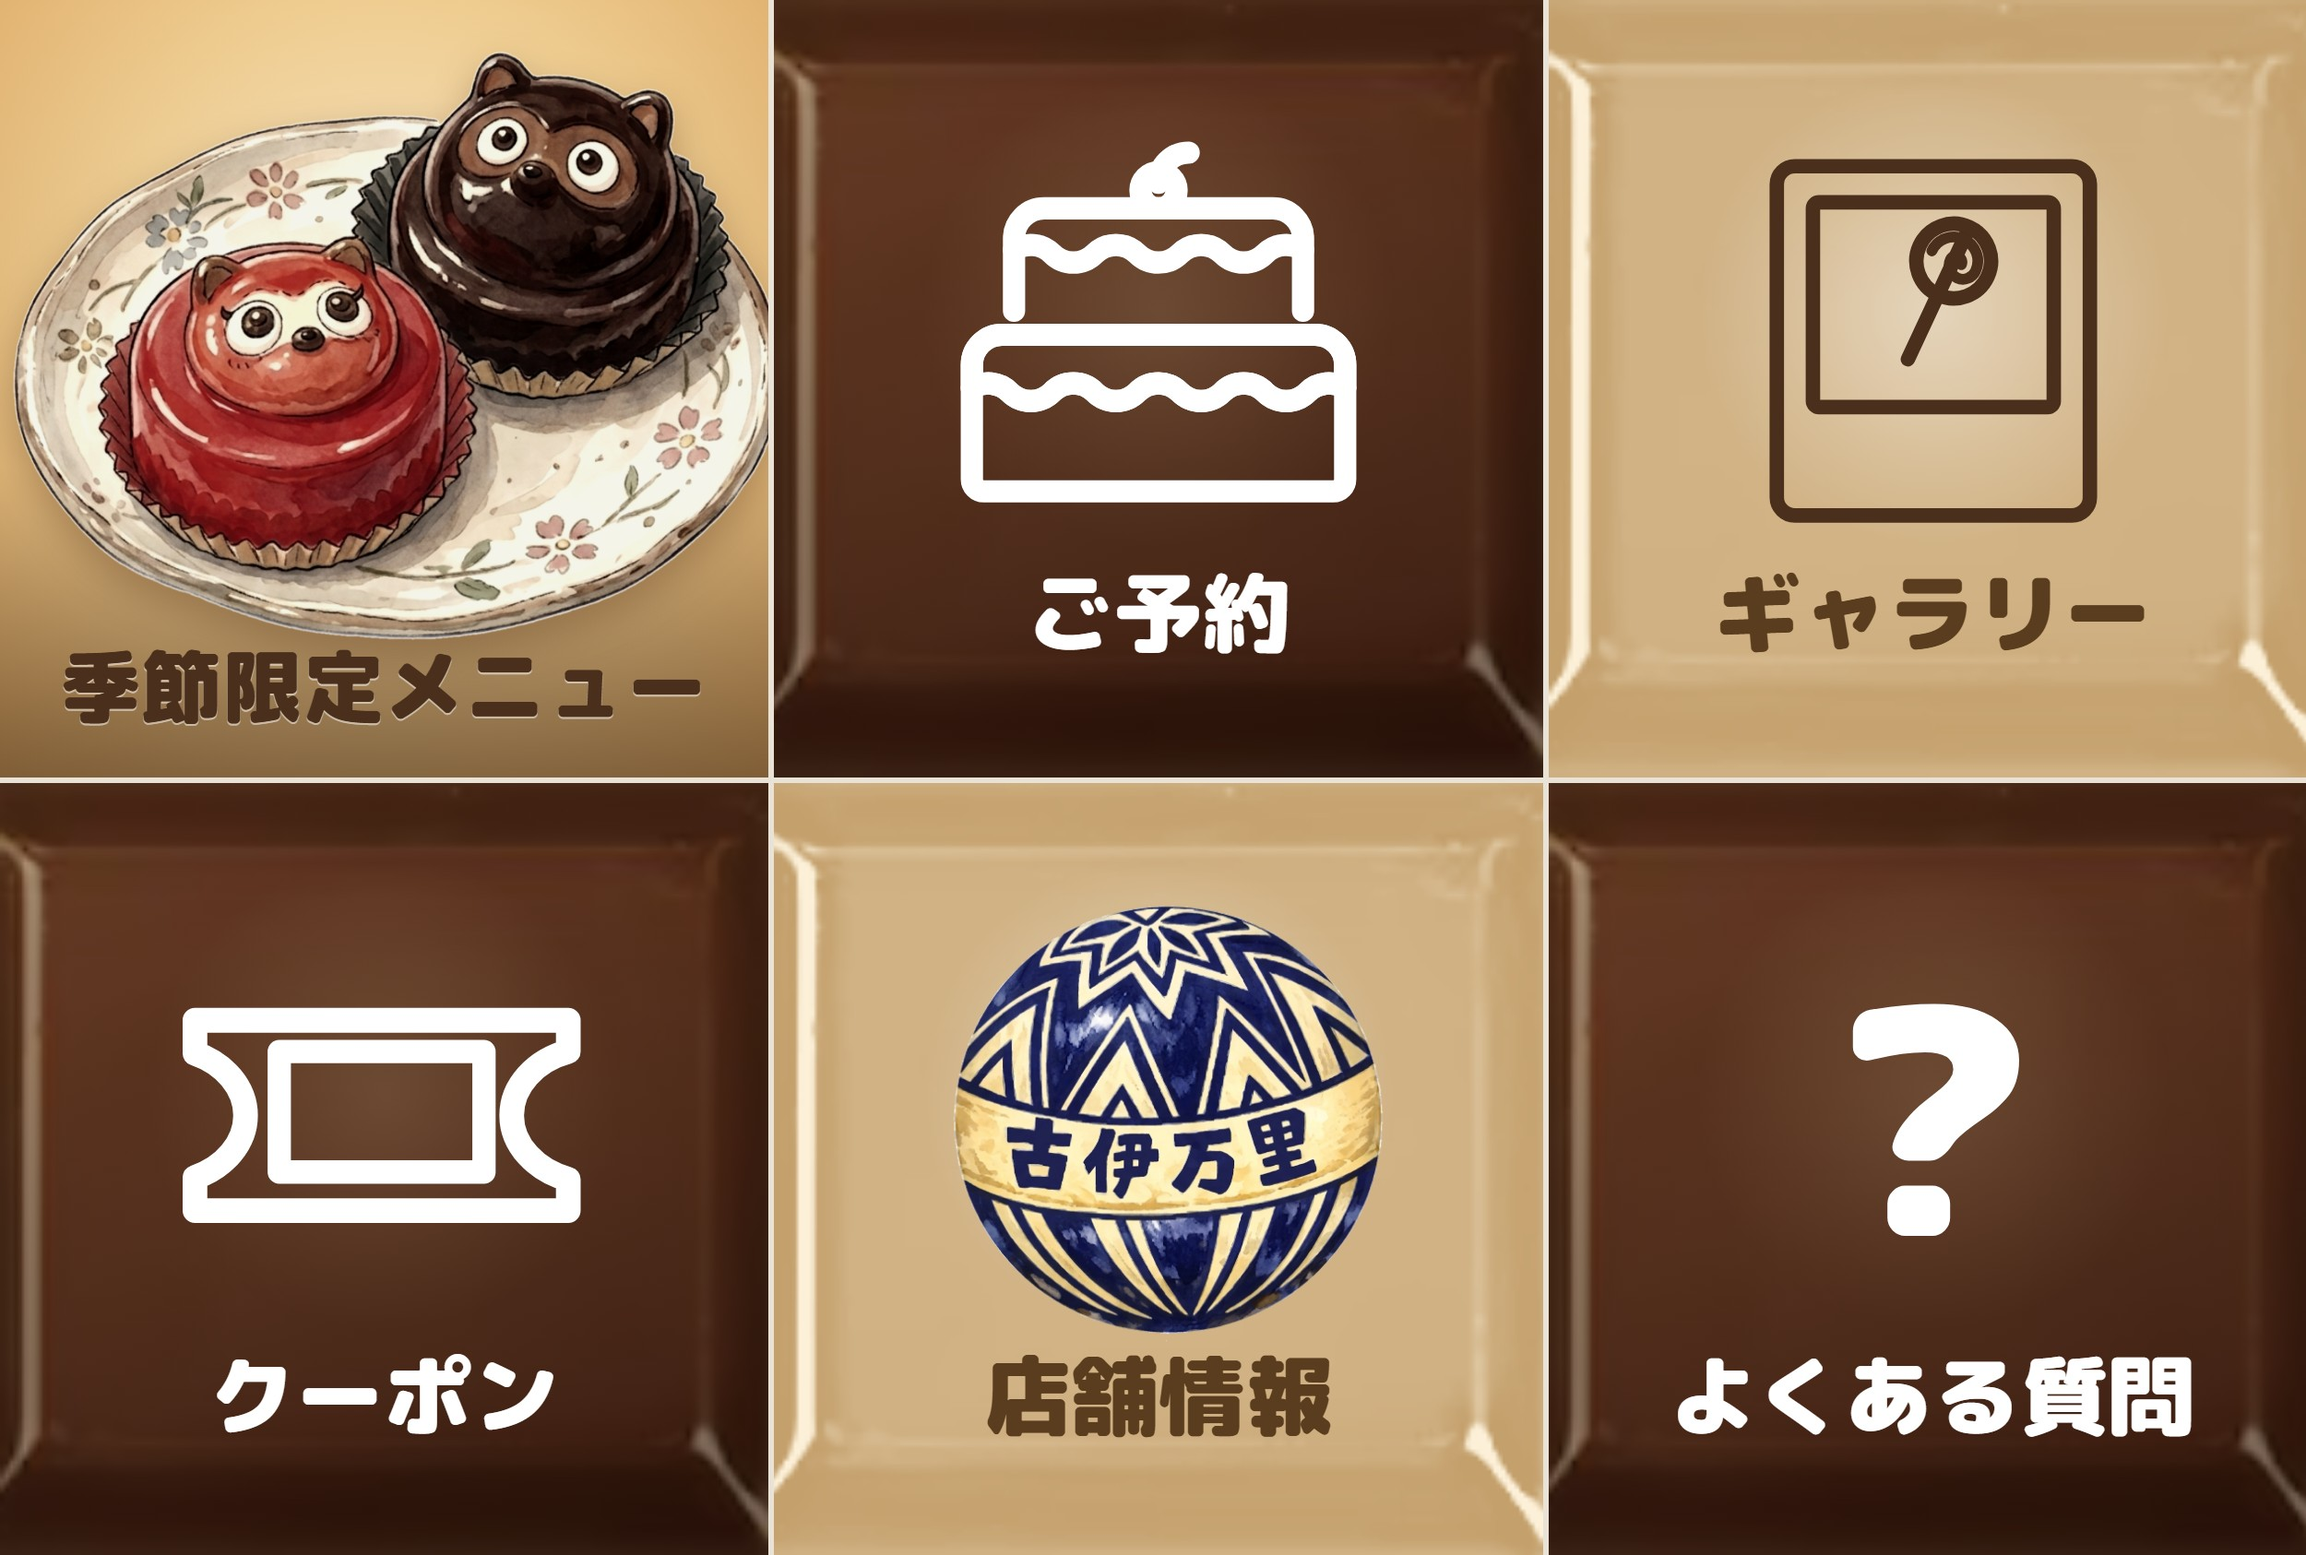
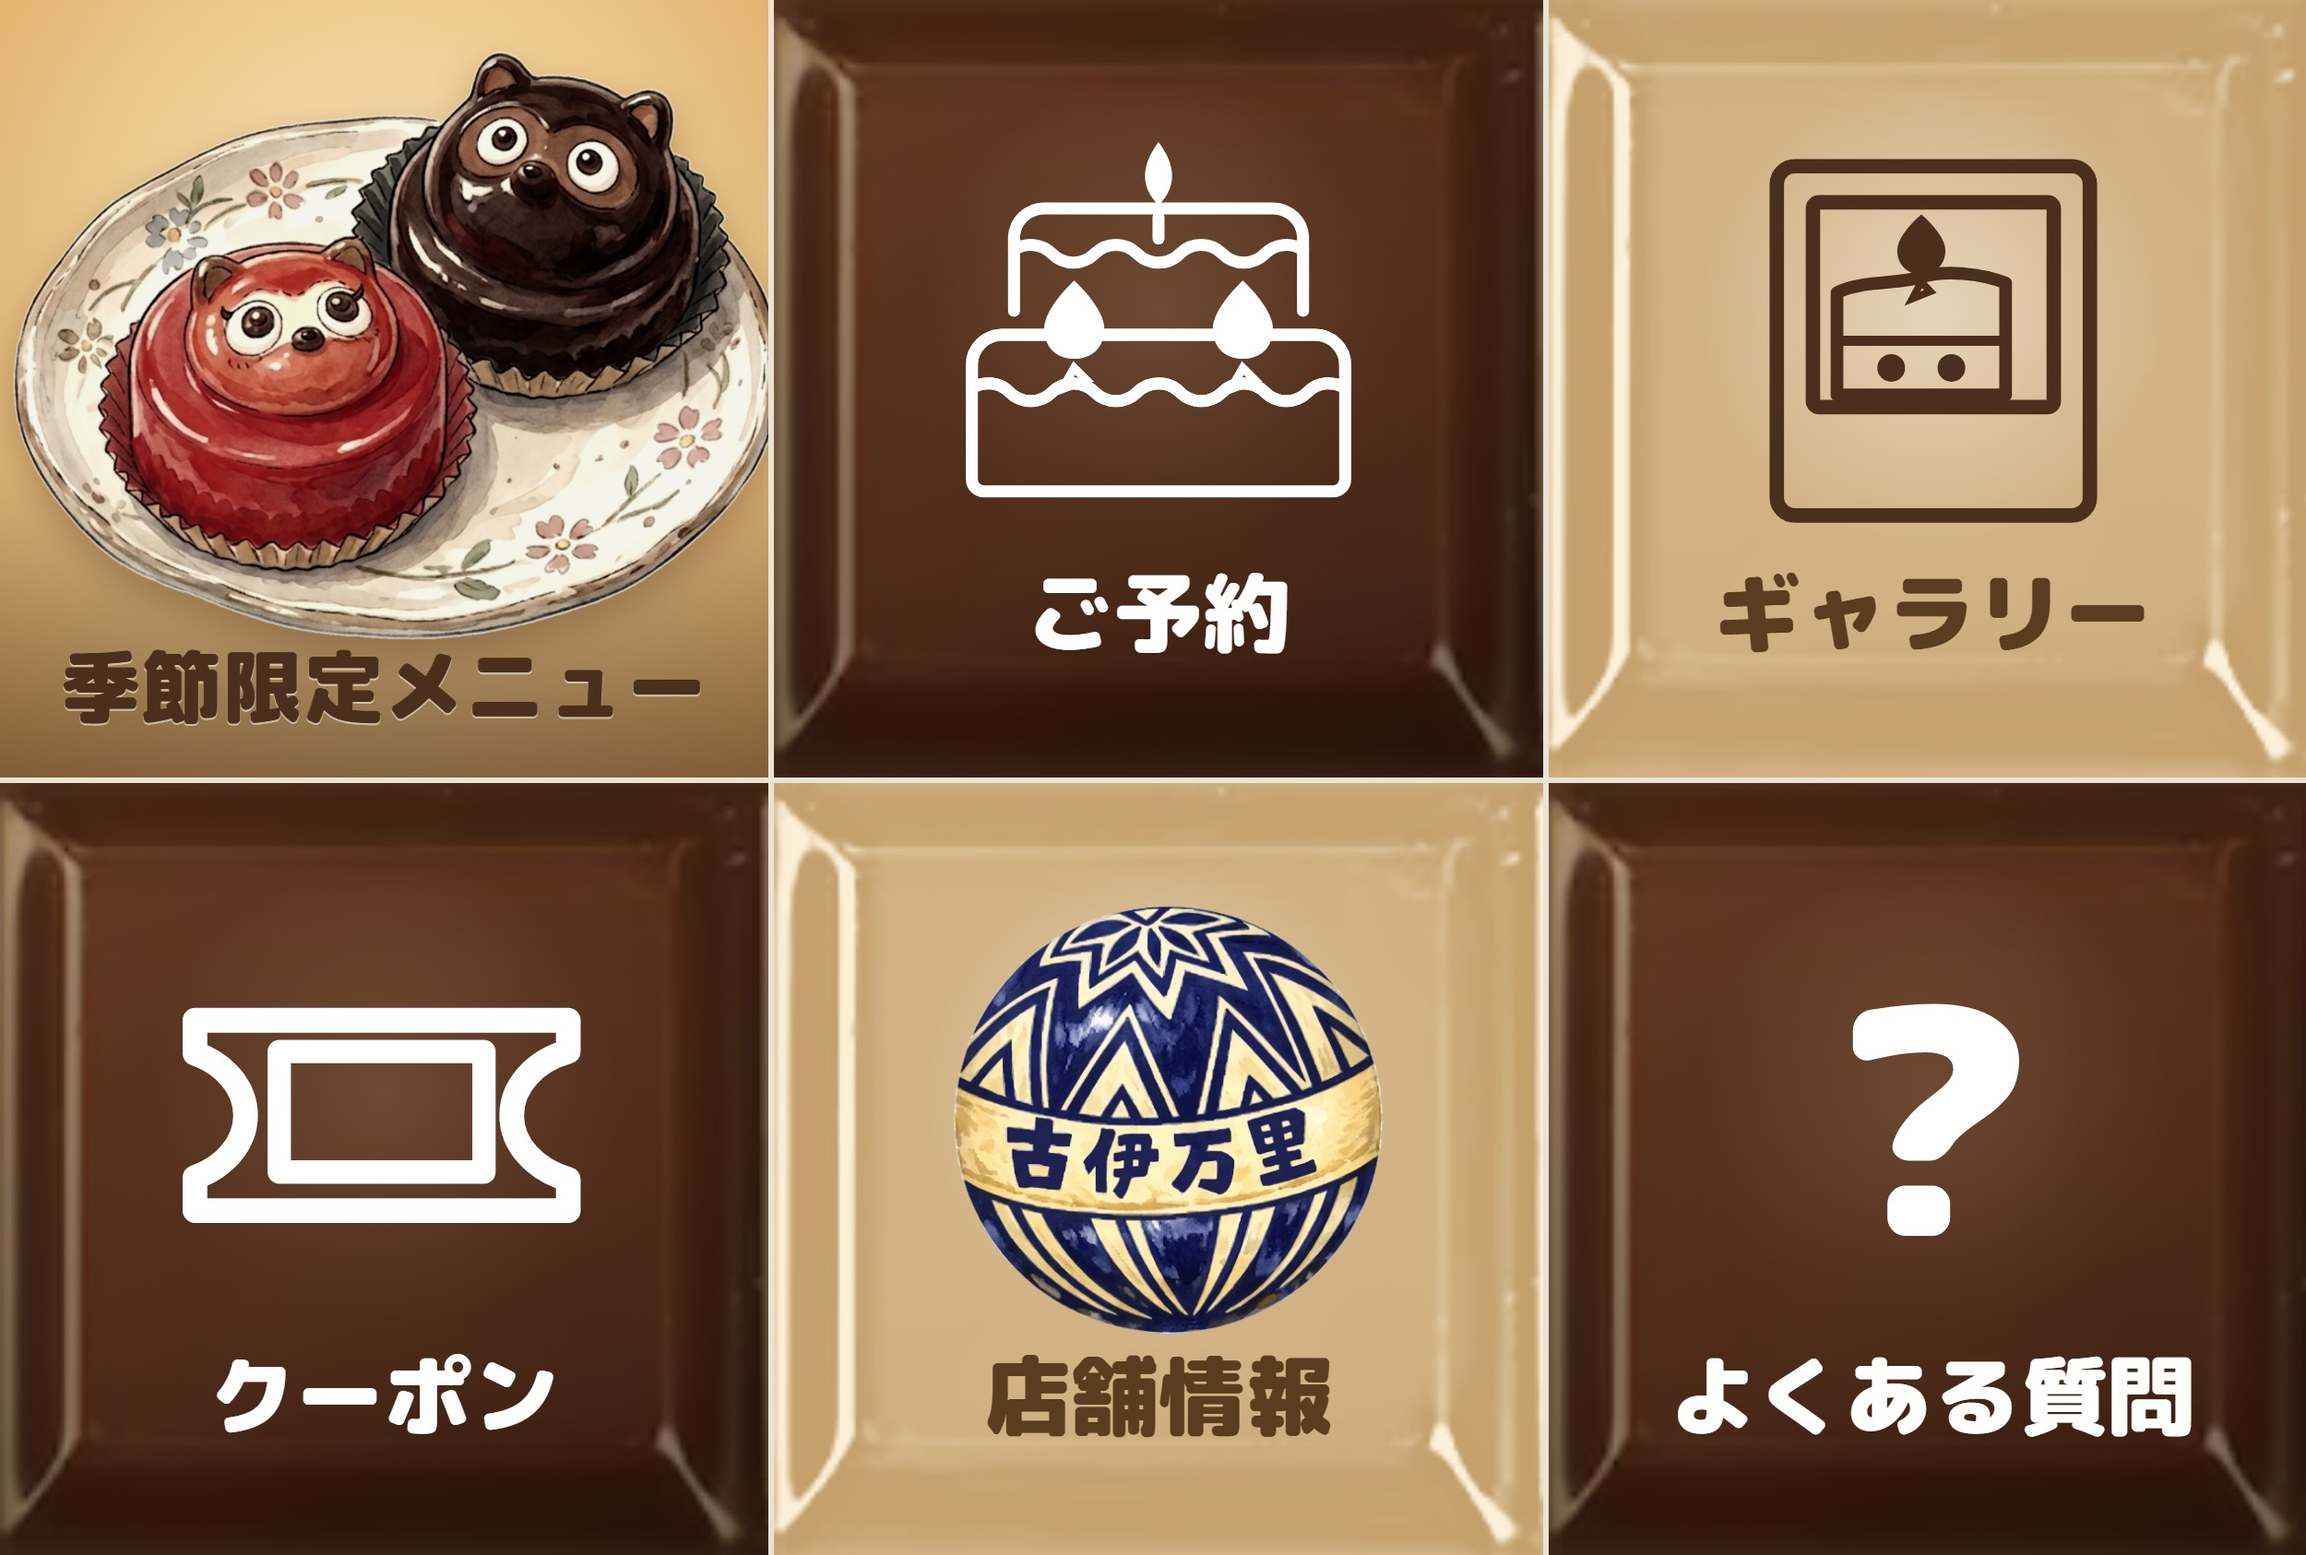
リッチメニューのアイコンを磨き込み（板チョコの縁・苺の向き・カットケーキ断面）
- 板チョコブロック背景をcoverからストレッチ表示に変更し、cover指定で
  左右の縁が中央より多くトリミングされて薄く見えていた問題を解消
- ご予約アイコン：ケーキに火の灯ったキャンドルと苺（先端を上向き）を追加
- ギャラリーアイコン：ロリポップ→断面が見えるカットケーキ（苺の層入り）に変更
- RICHMENU_VERSIONを更新し、次回のensureRichMenu自動実行で反映されるように

diff --git a/functions/assets/richmenu-src/richmenu-source.html b/functions/assets/richmenu-src/richmenu-source.html
@@ -13,8 +13,8 @@
   .hero__bg{position:relative;z-index:1;width:104%;margin:0 auto -8px;object-fit:contain;filter:drop-shadow(0 18px 20px rgba(90,50,20,.35));}
   .hero__scrim{position:absolute;inset:0;background:linear-gradient(180deg,rgba(46,33,24,0) 0%,rgba(46,33,24,.06) 60%,rgba(38,24,16,.5) 100%);}
   .hero__jp{position:relative;z-index:2;font-size:86px;font-weight:900;letter-spacing:.02em;color:#4a2f1c;text-shadow:0 2px 0 rgba(255,255,255,.5);line-height:1.15;}
-  .tile{background:#e8c98f url(whitechoco_block.png) center/cover no-repeat;}
-  .tile--dark{background:#4a2f1c url(itachoco_block.png) center/cover no-repeat;}
+  .tile{background:#e8c98f url(whitechoco_block.png) center/100% 100% no-repeat;}
+  .tile--dark{background:#4a2f1c url(itachoco_block.png) center/100% 100% no-repeat;}
   .tile--dark::after{content:"";position:absolute;inset:0;background:linear-gradient(160deg,rgba(120,80,45,.38) 0%,rgba(40,22,12,.62) 100%);z-index:0;}
   .tile .jp,.tile--dark .jp{position:relative;z-index:1;font-size:94px;font-weight:900;letter-spacing:.01em;line-height:1.1;margin-top:14px;}
   .tile--dark .jp{color:#fff;}

diff --git a/functions/index.js b/functions/index.js
@@ -396,7 +396,7 @@ const COUPON_TRIGGER_TEXT = "クーポンについて教えてください";
 // koimariOps/richMenuIds/version と一致しなくなった時点でensureRichMenuが自動的に
 // 作り直す（画像だけ差し替えてこの値を更新し忘れると、古いデザインのままになる）。
 // 詳しい変更手順は assets/richmenu-src/README.md を参照。
-const RICHMENU_VERSION = "2026-09-01-tanukichi";
+const RICHMENU_VERSION = "2026-09-01-tanukichi-v2";
 
 async function lineApi(method, url, accessToken, body, isBinary) {
   const headers = { Authorization: `Bearer ${accessToken}` };
